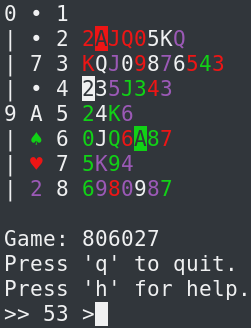
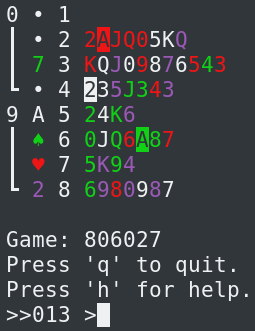
Improved display graphics of cells and foundations

diff --git a/src/foundations.py b/src/foundations.py
@@ -11,7 +11,12 @@ class Foundations:
         pos = window.getyx()
         for i, found in enumerate(self.founds):
             window.move(pos[0] + i, pos[1])
-            label = '9 ' if i == 0 else '| '
+            if i == 0:
+                label = '9 '
+            elif i == 3:
+                label = '┗ '
+            else:
+                label = '┃ '
             window.addstr(label)
             found.show(window)
         window.move(*pos)

diff --git a/src/board.py b/src/board.py
@@ -51,7 +51,12 @@ class Board:
         pos = window.getyx()
         for i, cell in enumerate(self.cells):
             window.move(pos[0] + i, pos[1])
-            label = '0 ' if i == 0 else '| '
+            if i == 0:
+                label = '0 '
+            elif i == 3:
+                label = '┗ '
+            else:
+                label = '┃ '
             window.addstr(label)
             cell.show(window)
         window.move(*pos)
